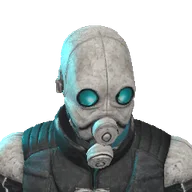
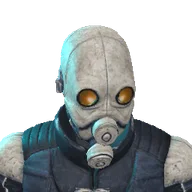
The Hollow Pilgrim's grip (support hand 23 to 12 cm off), portraits for the four, fixes.recolor tested and documented
Claude-Session: https://claude.ai/code/session_01PfNGaHafsFeFAcWZgUEzoB

Changed region(s): [[0.4062, 0.4375, 0.5312, 0.5625], [0.5938, 0.4375, 0.6875, 0.5625], [0.2188, 0.875, 0.25, 0.9062]]

diff --git a/packages/client/src/frontend/portraitIndex.ts b/packages/client/src/frontend/portraitIndex.ts
@@ -17,7 +17,7 @@ export const SHIPPED_PORTRAITS: Readonly<Record<string, string>> = {
   'core.ashwalker': 'core.ashwalker.webp?v=238bb96d3d',
   'core.astroexplorer': 'core.astroexplorer.webp?v=917f3962b2',
   'core.astronaut': 'core.astronaut.webp?v=587f3904cd',
-  'core.azuresentinel': 'core.azuresentinel.webp?v=3dba289dd8',
+  'core.azuresentinel': 'core.azuresentinel.webp?v=e6894ca1d0',
   'core.bandit': 'core.bandit.webp?v=a0853e9ff5',
   'core.barnaby': 'core.barnaby.webp?v=aa58b85db5',
   'core.barnacle': 'core.barnacle.webp?v=f9541571ca',
@@ -36,6 +36,7 @@ export const SHIPPED_PORTRAITS: Readonly<Record<string, string>> = {
   'core.brannock': 'core.brannock.webp?v=403aa9568d',
   'core.brasshare': 'core.brasshare.webp?v=eea42f5993',
   'core.brawler': 'core.brawler.webp?v=6444222401',
+  'core.bronzer': 'core.bronzer.webp?v=c7a35cb8dc',
   'core.bugman': 'core.bugman.webp?v=16ea0c980a',
   'core.bulwark': 'core.bulwark.webp?v=fb5f928b67',
   'core.butcher': 'core.butcher.webp?v=42d05acfac',
@@ -81,6 +82,7 @@ export const SHIPPED_PORTRAITS: Readonly<Record<string, string>> = {
   'core.hazmat': 'core.hazmat.webp?v=1901b888c1',
   'core.hector': 'core.hector.webp?v=95e3b5352a',
   'core.hoboclown': 'core.hoboclown.webp?v=b3a1ffaab9',
+  'core.hollowpilgrim': 'core.hollowpilgrim.webp?v=3e206b0bcc',
   'core.hollowvisitor': 'core.hollowvisitor.webp?v=ffc8a58a61',
   'core.huntress': 'core.huntress.webp?v=d3a820848a',
   'core.hyena': 'core.hyena.webp?v=c0dfe6765f',
@@ -109,7 +111,7 @@ export const SHIPPED_PORTRAITS: Readonly<Record<string, string>> = {
   'core.pharaoh': 'core.pharaoh.webp?v=52507e14d4',
   'core.pinkalien': 'core.pinkalien.webp?v=019dc6b0e9',
   'core.polysoldier': 'core.polysoldier.webp?v=e07ed3ee23',
-  'core.potatomarshal': 'core.potatomarshal.webp?v=d1183a46cb',
+  'core.potatomarshal': 'core.potatomarshal.webp?v=085a22500c',
   'core.prospector': 'core.prospector.webp?v=6ca8e2fb67',
   'core.pruitt': 'core.pruitt.webp?v=7d078a31a7',
   'core.punkin': 'core.punkin.webp?v=9cd76a044a',

diff --git a/packages/shared/src/content/characters.generated.ts b/packages/shared/src/content/characters.generated.ts
@@ -153,7 +153,7 @@ export const WHOLE_BODY_LOOKS: readonly CharacterLook[] = [
   { id: 'core.suitedman', name: 'Mister Lanky', body: 'male', head: '', parts: ['meshy_suitedman'], hair: [], colorways: [], skin: null, hairColor: null, whole: { arms: 'meshy_suitedman_fparms' }, group: 'folk', tier: 'experimental', nameTheme: 'townsfolk' },
   { id: 'core.alienexplorer', name: 'Reef Wanderer', body: 'male', head: '', parts: ['meshy_alienexplorer'], hair: [], colorways: [], skin: null, hairColor: null, whole: { arms: 'meshy_alienexplorer_fparms' }, group: 'creatures', tier: 'experimental', nameTheme: 'alien' },
   { id: 'core.bronzer', name: 'Bronzer', body: 'male', head: '', parts: ['meshy_bronzer'], hair: [], colorways: [], skin: null, hairColor: null, whole: { arms: 'meshy_bronzer_fparms' }, group: 'legends', tier: 'experimental', nameTheme: 'myth' },
-  { id: 'core.hollowpilgrim', name: 'The Hollow Pilgrim', body: 'male', head: '', parts: ['meshy_hollowpilgrim'], hair: [], colorways: [], skin: null, hairColor: null, locomotion: 'roll', whole: { arms: 'meshy_hollowpilgrim_fparms' }, group: 'legends', tier: 'experimental', nameTheme: 'myth' },
+  { id: 'core.hollowpilgrim', name: 'The Hollow Pilgrim', body: 'male', head: '', parts: ['meshy_hollowpilgrim'], hair: [], colorways: [], skin: null, hairColor: null, locomotion: 'roll', whole: { arms: 'meshy_hollowpilgrim_fparms', hold: { forward: -0.15 }, grip: { supportLong: [0, 0.04, 0.1] } }, group: 'legends', tier: 'experimental', nameTheme: 'myth' },
 ];
 
 /** Whole-body characters made for NPCs only (`use: npc`): not on the roster; NPC_ROLE_SPECS can name them. */

diff --git a/packages/shared/test/characterTiers.test.ts b/packages/shared/test/characterTiers.test.ts
@@ -31,7 +31,7 @@ import { CLIP_SET_CLIPS as TOOL_CLIPS, TIERS } from '../../../tools/content/char
 const trial: CharacterLook = { id: 'core.trialbot', name: 'Trial Bot', body: 'male', head: '', parts: ['meshy_trialbot'], hair: [], colorways: [], skin: null, hairColor: null, whole: { arms: 'meshy_trialbot_fparms' }, group: 'creatures', nameTheme: 'robot', tier: 'experimental' };
 const ROSTER: readonly CharacterLook[] = [trial, ...CORE_LOOKS];
 // The roster's own tiers (experimental characters of its own come and go: the ten of 2026-11-11 until 2026-11-12, the twelve
-// of 2026-11-13 until 2026-11-14, the ten of 2026-11-14 since then).
+// of 2026-11-13 until 2026-11-14, the twelve of 2026-11-14 since then).
 const CORE_TIER = CORE_LOOKS.filter((l) => characterTier(l) === 'core');
 const EXPERIMENTAL = CORE_LOOKS.filter((l) => characterTier(l) === 'experimental');
 

diff --git a/docs/CHARACTERS.md b/docs/CHARACTERS.md
@@ -686,7 +686,7 @@ repo; they live in a downloads dir outside it.
 | `clipsWhy` | With `clips: false` only: why this body keeps the rig's own gait. |
 | `firstPerson.arms` | `own` (its own forearms and hands, `<id>_fparms.glb`), or a universal arms part with `skin`, `cloth` and `trim` dyes. |
 | `firstPerson.body` | `false`: full-body first person shows this character's arms only (its hat brim, cape or hood would fill the view from its own eyes: Grizzelda). Left out: full body. |
-| `fixes` | `triangles` (the body's budget; 11000 for an unrigged download, half the download's for a rigged one), `lean` (degrees back per spine joint for a hunched body), `cloth` (cloth below the hips follows the pelvis), `tail` (points from the hips), `feet` (turn the feet level: the foot bone pointed the rig's way, then each foot turned about its ankle until the lowest points of its heel and of its front are level; Meshy's rig left feet 7-23 degrees toes up without this), `centre` (true: the body moved over the origin by its hips; Meshy centres a download's box, so a long tail behind stood the body that far ahead of the origin the game moves and collides it by: the crocodile's hips 0.39 m ahead at 1.8 m, nearer Character Select's camera than everyone else with its head out of frame. As of 2026-11-06 Bandit 0.48 m, Scamp 0.35 and Greyfang 0.26 stand ahead too: candidates once their downloads are at hand), `seamWeld` (simplify across texture seams; the head and hands then get no share of their own), `surface` (`rebake`: the download cut to `triangles` with its texture seams closed, laid out afresh and its colour and normal maps painted from the full download; see "Rebaked characters"), `scrubBlue` (repaint blue badges: `#rrggbb` repaints every strongly blue texel; `{ "color": "#rrggbb", "within": [[u0, v0, u1, v1], …] }` only those inside boxes of the download's colour map (shares of its width and height, the download's own layout, so not with `surface: rebake`): the Spacewalker's mission patch went, the flag on its other shoulder stayed), `hands` (below), `armCloth` (cloth hanging off an arm goes with the body; see "Arm skin kept to the arms"), `skinClean` (weights cleaned in the download's own pose, contacts torn; see "Skin cleaned in the download's pose"), `handsShare` (the share of the triangle budget the hands keep in the cut, 0.04 unless set (0.08 in a rebake): more where cuffs the skinning left on the hands took it, as on King Aldric), `headShare` (the head's share, 0.12 unless set), `normalSize` (1024: a 1024 px normal map instead of 512), `lod` (the far copy's share of the body's triangles, 0.3 unless set; see "Level of detail"), `hold` (`{ forward, down, out }`, metres at a 1.8 m body: this look's long-gun hold against everyone's, along the barrel, square to it and out to the gun shoulder's side, in third person and Character Select; Bandit's broad build put the stock at his snout, Bamboo's big low head the rifle across its snout), `grip` (this look's own hands and arms on a gun, in third person and Character Select: `supportPistol` / `supportLong` / `gripLong` move the support hand's point on a pistol or handguard and the shooting palm's point on a long gun's grip (`[right, up, ahead]` in the gun's frame, m), `curlR` / `curlL` scale how far each hand closes, `rollR` / `rollL` turn a hand about its fingers (radians), `elbowOut` / `elbowDown` move where the long-gun shooting elbow bends toward (m); set per look from before/after shots and the grip audit, since a change to the shared hold moves every look; HANDOFF.md, "Grips round 3"; an offset set before 2026-11-05 was tuned while some palms were read back to front, so re-check it: in hands round 5 a pistol's `supportPistol` near `[-0.01, 0.03, -0.03]` put the support hand round the shooting hand where the old `[0, 0.04, -0.08]` held it back under the wrist, and `supportLong [0, 0.02, 0.03]` the long-gun support hand on the handguard. First person reads none of it), `skin` (this look's own skin weights: finger `tips`, `knuckle`, `joints`, `lanes`, `fingers`; body `hops`, `clamp`, `smooth`, `wrist`; a hard part held whole by one joint, `rigid`; see "A look's own skin weights")., `fingers` (`own`, the default: a rigged download whose finger chains are whole keeps its own finger joints and weights; `fit`: re-fitted from the mesh as before; see "The download's own fingers"). |
+| `fixes` | `triangles` (the body's budget; 11000 for an unrigged download, half the download's for a rigged one), `lean` (degrees back per spine joint for a hunched body), `cloth` (cloth below the hips follows the pelvis), `tail` (points from the hips), `feet` (turn the feet level: the foot bone pointed the rig's way, then each foot turned about its ankle until the lowest points of its heel and of its front are level; Meshy's rig left feet 7-23 degrees toes up without this), `centre` (true: the body moved over the origin by its hips; Meshy centres a download's box, so a long tail behind stood the body that far ahead of the origin the game moves and collides it by: the crocodile's hips 0.39 m ahead at 1.8 m, nearer Character Select's camera than everyone else with its head out of frame. As of 2026-11-06 Bandit 0.48 m, Scamp 0.35 and Greyfang 0.26 stand ahead too: candidates once their downloads are at hand), `seamWeld` (simplify across texture seams; the head and hands then get no share of their own), `surface` (`rebake`: the download cut to `triangles` with its texture seams closed, laid out afresh and its colour and normal maps painted from the full download; see "Rebaked characters"), `scrubBlue` (repaint blue badges: `#rrggbb` repaints every strongly blue texel; `{ "color": "#rrggbb", "within": [[u0, v0, u1, v1], …] }` only those inside boxes of the download's colour map (shares of its width and height, the download's own layout, so not with `surface: rebake`): the Spacewalker's mission patch went, the flag on its other shoulder stayed), `recolor` (colours shifted by rule on the colour map, after `scrubBlue`: each rule picks texels by `hue` (degrees `[from, to]`, may wrap past 360), `sat` and `light` (HSL 0-1 `[from, to]`), fading over `feather` (0.06) past each bound so no edge shows, and sets `toHue` (degrees), `toSat` or `satScale`, and `lightScale`, mixed by `amount`; Azure Sentinel's coat navy and lenses amber, Spud Marshal's armour olive drab, both so they read as their own characters, owner 2026-11-14), `hands` (below), `armCloth` (cloth hanging off an arm goes with the body; see "Arm skin kept to the arms"), `skinClean` (weights cleaned in the download's own pose, contacts torn; see "Skin cleaned in the download's pose"), `handsShare` (the share of the triangle budget the hands keep in the cut, 0.04 unless set (0.08 in a rebake): more where cuffs the skinning left on the hands took it, as on King Aldric), `headShare` (the head's share, 0.12 unless set), `normalSize` (1024: a 1024 px normal map instead of 512), `lod` (the far copy's share of the body's triangles, 0.3 unless set; see "Level of detail"), `hold` (`{ forward, down, out }`, metres at a 1.8 m body: this look's long-gun hold against everyone's, along the barrel, square to it and out to the gun shoulder's side, in third person and Character Select; Bandit's broad build put the stock at his snout, Bamboo's big low head the rifle across its snout), `grip` (this look's own hands and arms on a gun, in third person and Character Select: `supportPistol` / `supportLong` / `gripLong` move the support hand's point on a pistol or handguard and the shooting palm's point on a long gun's grip (`[right, up, ahead]` in the gun's frame, m), `curlR` / `curlL` scale how far each hand closes, `rollR` / `rollL` turn a hand about its fingers (radians), `elbowOut` / `elbowDown` move where the long-gun shooting elbow bends toward (m); set per look from before/after shots and the grip audit, since a change to the shared hold moves every look; HANDOFF.md, "Grips round 3"; an offset set before 2026-11-05 was tuned while some palms were read back to front, so re-check it: in hands round 5 a pistol's `supportPistol` near `[-0.01, 0.03, -0.03]` put the support hand round the shooting hand where the old `[0, 0.04, -0.08]` held it back under the wrist, and `supportLong [0, 0.02, 0.03]` the long-gun support hand on the handguard. First person reads none of it), `skin` (this look's own skin weights: finger `tips`, `knuckle`, `joints`, `lanes`, `fingers`; body `hops`, `clamp`, `smooth`, `wrist`; a hard part held whole by one joint, `rigid`; see "A look's own skin weights")., `fingers` (`own`, the default: a rigged download whose finger chains are whole keeps its own finger joints and weights; `fit`: re-fitted from the mesh as before; see "The download's own fingers"). |
 | `source.modelUrl` | For Meshy's rigging API: `"upload"` (the unrigged download in the downloads dir, sent as a data URI; the usual choice), or a public link to a `.glb` file. Meshy refuses a link whose path doesn't end in `.glb` ("invalid model file format"), so Google Drive download links don't work. |
 | `landmarks` | Optional, for an unrigged download: found from the mesh when left out (see "Rigging an unrigged download"). The joints in units of the model's height, feet at y = 0, +x the character's left, +z its front. `spine`: hips, three spine joints, neck, head, top of the head. `L`/`R`: clavicle, shoulder, elbow, wrist, hand tip, hip, knee, ankle, ball, toe tip. Read them off front and side views. |
 

diff --git a/CHANGELOG.md b/CHANGELOG.md
@@ -7,7 +7,7 @@ and a patch bump a fix-only release. The version shows on the main menu
 made only on a commit that passed CI on a check branch.
 
 ## Unreleased
-- **Ten new characters under Experimental** (Meshy Community, CC0): Velvet Vance, Warrior Sentinel, Armored Sentinel, Rosa Rivets, Spike Scavenger, Azure Sentinel, Sun Warrior, Spud Marshal, Mister Lanky and Reef Wanderer. Pick them in Character Select's Experimental section; bots, random picks and Roulette leave them alone until they join the roster.
+- **Twelve new characters under Experimental** (Meshy Community, CC0): Velvet Vance, Warrior Sentinel, Armored Sentinel, Rosa Rivets, Spike Scavenger, Azure Sentinel (navy coat, amber lenses), Sun Warrior, Spud Marshal (olive armour, grey-green skin), Mister Lanky, Reef Wanderer, Bronzer (a living bronze statue) and The Hollow Pilgrim, who glides on its robe instead of walking. Pick them in Character Select's Experimental section; bots, random picks and Roulette leave them alone until they join the roster.
 - **Effects fixes.** Pantry Raid's mouse holes are real ways through: the skirting board stops at each hole, so every body size and the bots get through, and the holes show a dark painted swirl (MapMaker: a portal's new Swirl option, Pack effect or Painted). Pickups' floor rings get a thin dark outline, so they read on sand, snow and white tile. On Low graphics, effects you can't see no longer take the places of the pads, portals and pickup glows in front of you. Guns waiting to be picked up are drawn bigger (1.4x), clear of walls.
 - **The Heavy MG Turret sits at the hip.** It is drawn 2.1 times its model's size (2.4 before): its receiver's top is 1.35 m up, a quarter of a metre under your eye, so the ground shows from about 26 degrees under the crosshair where the gun hid everything within about 6; standing behind it, characters hold it at hip height, not at the belly. Its box is a little smaller (cover to 1.34 m) and the gunner stands 1.5 m behind the pintle.
 - **MapMaker: vehicle pictures with their tires.** The palette pictures of the Troop, Gun and Supply Buggy, the Troop Truck and the Armored Rover now show their tires (they showed the bodies alone).
